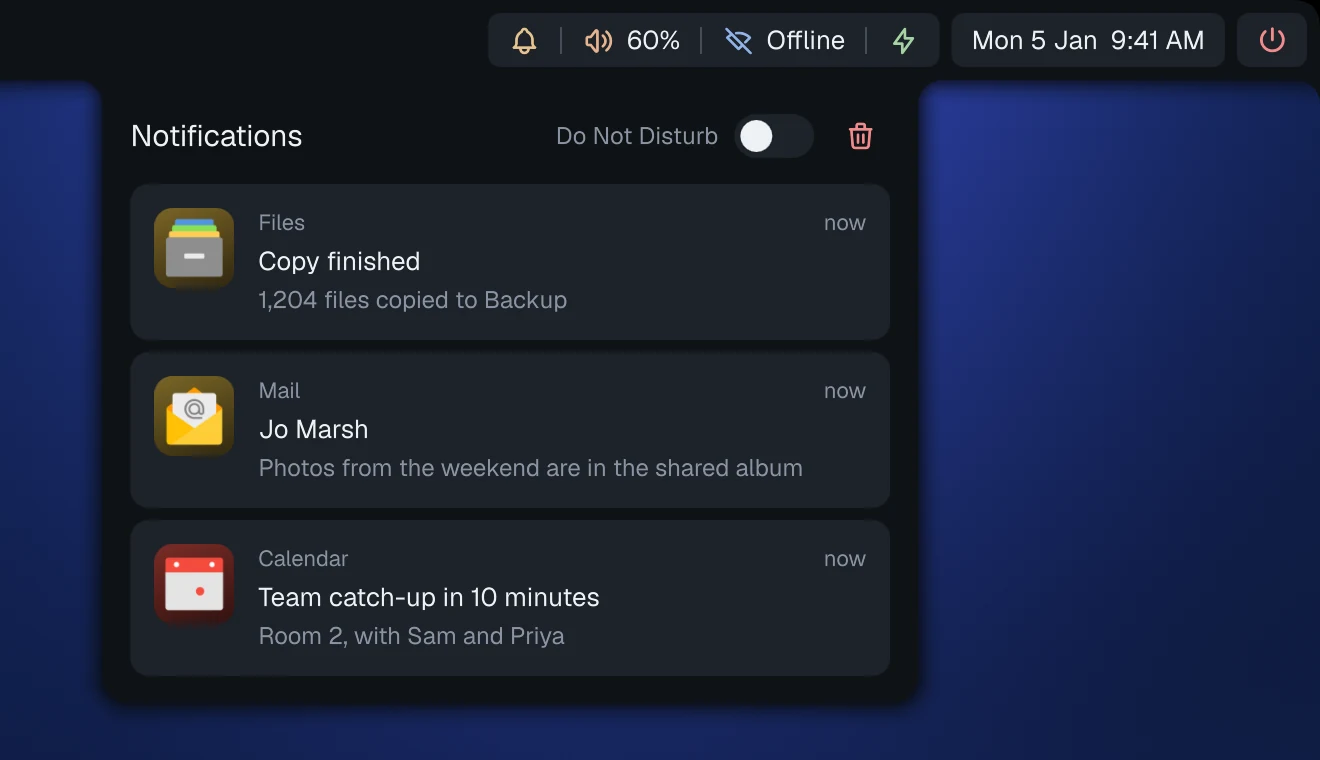
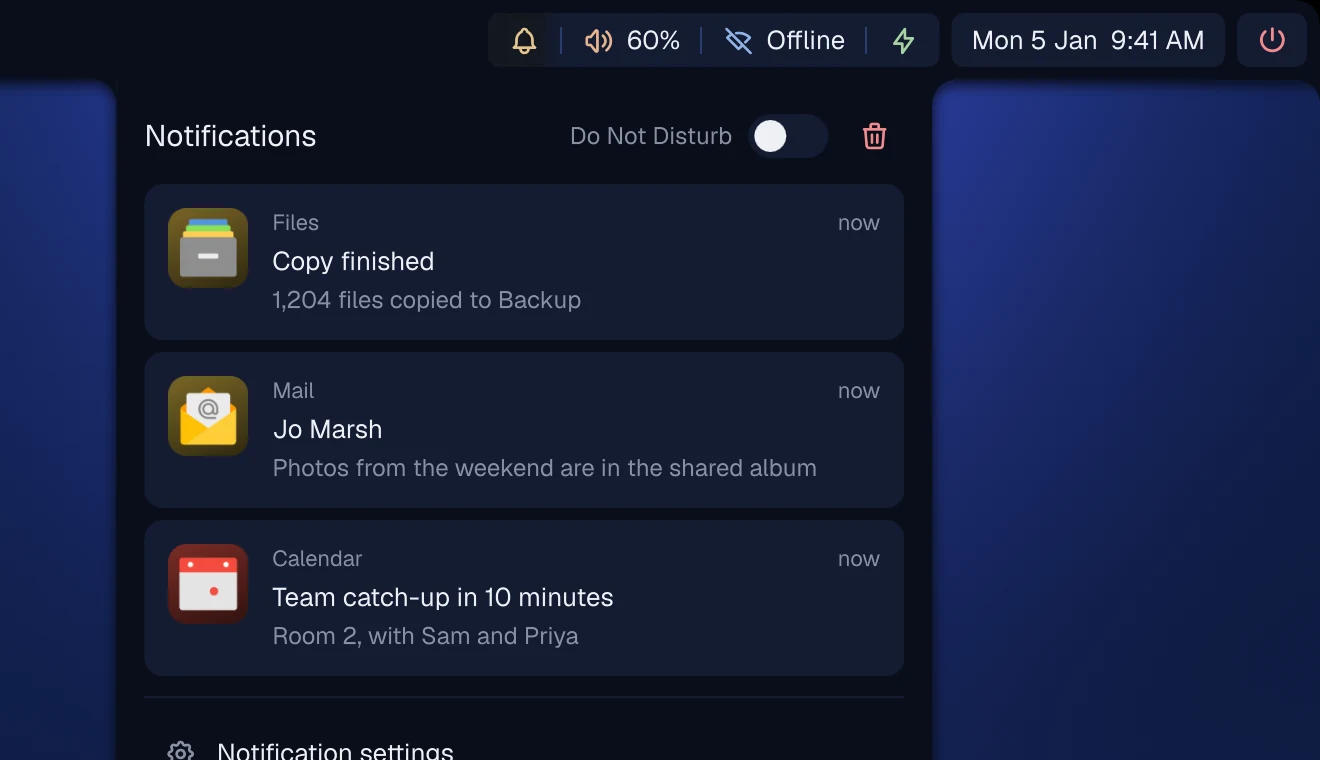
fix: hovers at once, settings links on every panel, clearing asks first
- The control center's Settings and Power buttons, the workspace dots
  and seven more hovers (Nova's close and chips, the dock's media
  buttons, a notification's close and its glass, Quick Look's buttons,
  Settings' icon buttons and search clear) now show at once, as every
  hover does. The static hover check now catches any color that
  follows the pointer and fades.
- The Wi-Fi, Sound, Battery and Notifications panels end with a
  "… settings" link like the others, and a static test keeps it so.
- Clearing the clipboard history (the picker's Clear all, the panel's
  Clear history, Settings → General) asks first, in Slate's
  confirmation window.
- Tray icons in the menu bar's More keep their own row when another
  app quits (rows were keyed by place in the tray).
- Small tidy-ups: menus use Config.glyph, Spaces' icon ink is the
  theme's, the dock preview's check is simpler, and the overview
  copes with a window gone mid-redraw.

Changed region(s): [[0.0621, 0.0908, 0.7144, 1.0], [0.1864, 0.6053, 0.6212, 0.6355]]

diff --git a/shell/shell.qml b/shell/shell.qml
@@ -87,6 +87,7 @@ ShellRoot {
     // Clipboard history (Super+V) and emoji picker (Super+.)
     Picker {
         id: picker
+        confirmer: powerConfirm
         onShownChanged: if (shown) root.closeOverlaysBut(picker)
     }
     // Records clipboard history for the picker (scripts/clipstore.py); exits with Slate
@@ -423,6 +424,10 @@ ShellRoot {
         function fadeInClose(): void { Config.welcoming = false; Config.welcomeFading = false; }
         // Settings asking something (as its Reset does, with a switch): it asks in Slate's
         // confirmation window (power: custom)
+        // The picker's Clear all pressed, and the open question answered yes (only here, in test
+        // mode: the power target can't accept a question, or anything with IPC could say yes)
+        function pickerClearAll(): void { picker.askClearClips(); }
+        function powerAccept(): void { powerConfirm.confirm(); }
         function settingsAsk(): void {
             const w = settingsLoader.item;
             if (w) w.askQuestion({ title: "Test question?", body: "From the tests", button: "Yes",
@@ -654,7 +659,8 @@ ShellRoot {
                 spaces: { saved: Spaces.list.length, live: Spaces.live.length },
                 // (a player playing full screen, which holds off the idle timers)
                 mediaFullscreen: Config.mediaFullscreen,
-                power: { open: powerConfirm.shown, action: powerConfirm.action, option: powerConfirm.hasOption },
+                power: { open: powerConfirm.shown, action: powerConfirm.action, option: powerConfirm.hasOption,
+                         title: powerConfirm.custom ? powerConfirm.custom.title || "" : "" },
                 polkit: { open: polkitAgent.shown },
                 welcome: { built: welcome.built, open: welcome.shown, page: welcome.page, pages: welcome.pages, inApps: welcome.inApps, newHere: welcome.newHere },
                 fadeIn: { open: Config.welcoming, fading: Config.welcomeFading },
@@ -717,7 +723,7 @@ ShellRoot {
                 // The menu bar's arrangement, and arranging it (BarEditor.qml)
                 bar: { arranging: Config.barArranging, layout: Config.barLayout, isDefault: Config.barIsDefault,
                        picked: Config.barSelected, pickedItem: Config.barSelectedItem, editor: !!barEditor.item && barEditor.item.shown, editorBuilt: !!barEditor.item, edge: popouts.edge,
-                       line: topBar.lineState(), span: topBar.lineSpan(), gives: topBar.gives, opened: topBar.openBoxes(), clock: topBar.clockText, titleWidth: Math.round(topBar.titleWidth), overflowed: topBar.overflowed, scroll: topBar.scrollState(), order: Config.barOverflowOrder, priority: barEditor.item ? barEditor.item.priorityState : { open: false, list: [], scroll: 0, scrollMax: 0, lengthMenu: false, length: "" }, stay: Config.barStay, more: topBar.moreRows().map(r => [r.label, r.value]), menu: topBar.menu.visible ? topBar.menu.items.map(i => i.label) : [], dots: topBar.dotsState(), band: topBar.band(),
+                       line: topBar.lineState(), span: topBar.lineSpan(), gives: topBar.gives, opened: topBar.openBoxes(), clock: topBar.clockText, titleWidth: Math.round(topBar.titleWidth), overflowed: topBar.overflowed, scroll: topBar.scrollState(), order: Config.barOverflowOrder, priority: barEditor.item ? barEditor.item.priorityState : { open: false, list: [], scroll: 0, scrollMax: 0, lengthMenu: false, length: "" }, stay: Config.barStay, more: topBar.moreRows().map(r => [r.label, r.value]), moreKeys: topBar.moreKeys().map(k => [k, (topBar.moreRow(k) || {}).label || ""]), menu: topBar.menu.visible ? topBar.menu.items.map(i => i.label) : [], dots: topBar.dotsState(), band: topBar.band(),
                        // (the label off the bar saying what the pointer's over: BarLabel.qml)
                        label: topBar.label.testState() },
                 barEdge: Config.barEdge, dockEdge: Config.dockEdge,

diff --git a/shell/Bar.qml b/shell/Bar.qml
@@ -108,21 +108,31 @@ PanelWindow {
     // not much use as a row in More
     readonly property var notInMore: ["windowicon", "windowtitle"]
     readonly property var inMore: overflowed.filter(id => !notInMore.includes(id))
-    // ...by key: a thing's id, or "tray:<n>" for each tray icon. The More panel's rows are made
-    // from these and only these, so a value changing (a timer each second, the volume) updates
-    // its row (moreRow) rather than making every row again
+    // ...by key: a thing's id, or "tray:<app's id>:<n>" for each tray icon (n counting an app's
+    // icons, for one with two). The More panel's rows are made from these and only these, so a
+    // value changing (a timer each second, the volume) updates its row (moreRow) rather than
+    // making every row again. (Keyed by place in the tray once, a row kept its key when an app
+    // before it quit, and went on to act on the next app along)
+    function trayKeys() {
+        const seen = {};
+        return SystemTray.items.values.map(tr => {
+            const id = String(tr.id || "");
+            seen[id] = (seen[id] || 0) + 1;
+            return "tray:" + id + ":" + seen[id];
+        });
+    }
     function moreKeys() {
         const keys = [];
         for (const id of inMore) {
             if (!Config.barItem(id) || !left.things[id]) continue;
-            if (id === "tray") { SystemTray.items.values.forEach((tr, i) => keys.push("tray:" + i)); continue; }
+            if (id === "tray") { keys.push(...trayKeys()); continue; }
             keys.push(id);
         }
         return keys;
     }
     function moreRow(key) {
         if (key.startsWith("tray:")) {
-            const tr = SystemTray.items.values[Number(key.slice(5))];
+            const tr = SystemTray.items.values[trayKeys().indexOf(key)];
             return tr ? { id: "tray", tray: tr, label: Config.trayName(tr) || "App", icon: 0, image: String(tr.icon), value: "" } : null;
         }
         const it = Config.barItem(key), t = left.things[key];

diff --git a/shell/TrayMenu.qml b/shell/TrayMenu.qml
@@ -128,7 +128,6 @@ PanelWindow {
 
     // Look: the menu bar's colors, as Slate's own menus (DesktopMenu.qml) have
     readonly property color bgColor: bar.barColor
-    readonly property color rowHover: bar.capsuleColor
     readonly property color textColor: bar.textColor
     readonly property color dimColor: Config.palette.dim
     // (the lines between groups: faint, as DesktopMenu's, so they read over glass too)
@@ -186,7 +185,7 @@ PanelWindow {
                         Text {
                             id: backArrow
                             anchors { left: parent.left; leftMargin: 8; verticalCenter: parent.verticalCenter }
-                            text: String.fromCodePoint(0xEA60)
+                            text: Config.glyph(0xEA60)
                             color: tm.dimColor
                             font.family: tm.bar.iconFont; font.pixelSize: 14
                         }
@@ -243,7 +242,7 @@ PanelWindow {
                             Text {
                                 visible: entryRow.checked
                                 anchors { left: parent.left; leftMargin: 8; verticalCenter: parent.verticalCenter }
-                                text: String.fromCodePoint(0xEA5E)
+                                text: Config.glyph(0xEA5E)
                                 color: Config.accent
                                 font.family: tm.bar.iconFont; font.pixelSize: 14
                             }
@@ -273,7 +272,7 @@ PanelWindow {
                             Text {
                                 visible: !!entryRow.e && entryRow.e.hasChildren
                                 anchors { right: parent.right; rightMargin: 8; verticalCenter: parent.verticalCenter }
-                                text: String.fromCodePoint(0xEA61)
+                                text: Config.glyph(0xEA61)
                                 color: tm.dimColor
                                 font.family: tm.bar.iconFont; font.pixelSize: 14
                             }

diff --git a/shell/WorkspaceDots.qml b/shell/WorkspaceDots.qml
@@ -144,11 +144,18 @@ Item {
                 width: wd.dot; height: wd.dot
                 radius: Config.dotRadius(wd.dot)
                 scale: cell.size
-                // Inactive workspaces dimmed a little (the marker shows the one in use);
-                // brighter under the pointer
-                color: cell.lit ? (cell.full ? Config.palette.text : Config.palette.dim)
-                    : cell.full ? Config.palette.mid : Config.palette.faint
+                // Inactive workspaces dimmed a little (the marker shows the one in use): fading as
+                // a workspace fills or empties
+                color: cell.full ? Config.palette.mid : Config.palette.faint
                 Behavior on color { ColorAnimation { duration: Config.ms(150) } }
+                // ...and brighter under the pointer, at once, as every hover is (CONVENTIONS):
+                // faded, it left a half-lit trail along the dots behind the pointer
+                Rectangle {
+                    anchors.fill: parent
+                    radius: parent.radius
+                    visible: cell.lit
+                    color: cell.full ? Config.palette.text : Config.palette.dim
+                }
             }
             // What takes the pointer: the dot, and reachAcross past it each side
             Item {

diff --git a/shell/NotificationCard.qml b/shell/NotificationCard.qml
@@ -82,7 +82,6 @@ Rectangle {
     // Glass: a sheen, as a bold glossy band over the top half (the gentle fade taller shapes
     // get barely showed on a card), a touch stronger than on the bar's capsules
     Gloss { visible: Config.glassGloss && !card.inPanel; radius: parent.radius; band: true; strength: 0.7 }       // (flat in the bell panel)
-    Behavior on color { ColorAnimation { duration: Config.ms(inPanel ? 100 : 160) } }
     // Pop-ups float a little: Slate's shadow (with glass too: it has the card's shape cut out
     // of it, so nothing shows through), kept within the room their window leaves round them
     Shadow { visible: Config.shadowsOn && !card.inPanel; strength: Config.toastShadowShare }
@@ -284,7 +283,6 @@ Rectangle {
                         text: String.fromCodePoint(0xEB55)
                         color: closeHover.hovered ? card.textColor : card.dim
                         // (with the fill behind it, not ahead of it)
-                        Behavior on color { ColorAnimation { duration: Config.ms(100) } }
                         font.family: card.bar.iconFont; font.pixelSize: 13
                     }
                     HoverHandler { id: closeHover }

diff --git a/shell/DesktopMenu.qml b/shell/DesktopMenu.qml
@@ -259,7 +259,7 @@ PanelWindow {
                         Text {
                             visible: card.icons
                             anchors { left: parent.left; leftMargin: 10; verticalCenter: parent.verticalCenter }
-                            text: row.modelData.icon ? String.fromCodePoint(row.modelData.icon) : ""
+                            text: row.modelData.icon ? Config.glyph(row.modelData.icon) : ""
                             color: dm.dimColor
                             font.family: Config.iconFont; font.pixelSize: 16
                         }
@@ -275,7 +275,7 @@ PanelWindow {
                         Text {
                             visible: row.opens
                             anchors { right: parent.right; rightMargin: 8; verticalCenter: parent.verticalCenter }
-                            text: String.fromCodePoint(0xEA61)          // chevron right
+                            text: Config.glyph(0xEA61)          // chevron right
                             color: row.open && dm.subWanted === row.index ? dm.textColor : dm.dimColor
                             font.family: Config.iconFont; font.pixelSize: 15
                         }

diff --git a/shell/WorkspaceOverview.qml b/shell/WorkspaceOverview.qml
@@ -747,7 +747,7 @@ PanelWindow {
                             ShaderEffectSource {
                                 visible: ov.livePreviews
                                 anchors.fill: parent
-                                sourceItem: ov.shotFor(parent.win.address)
+                                sourceItem: parent.win ? ov.shotFor(parent.win.address) : null       // (a window gone mid-redraw: nothing)
                                 live: true
                                 smooth: true
                                 mipmap: true
@@ -785,7 +785,7 @@ PanelWindow {
                             SpaceBadge {
                                 x: Math.round(size * 0.3); y: x
                                 size: Math.round(Math.max(14, Math.min(24, parent.width * 0.12, parent.height * 0.2)))
-                                space: Config.s.spaceSwitcherBadges ? Spaces.spaceById(Spaces.spaceOfAddress[parent.win.address]) : null
+                                space: Config.s.spaceSwitcherBadges ? Spaces.spaceById(Spaces.spaceOfAddress[parent.win?.address ?? ""]) : null
                             }
                         }
                     }

diff --git a/shell/Picker.qml b/shell/Picker.qml
@@ -132,6 +132,13 @@ PanelWindow {
         clipRun(["delete", e.id]);
     }
     function clearClips() { typed = true; clips = []; clipRun(["clear"]); }
+    // Clear all: the picker closes and Slate's confirmation window asks (it cleared in one click)
+    property var confirmer: null
+    function askClearClips() {
+        if (!confirmer) return;
+        close();
+        confirmer.confirmWith(Config.clearClipsQuestion, () => root.clearClips());
+    }
 
     function preview(text) { return text.replace(/\s+/g, " ").trim(); }
     // (the clipboard's times are in seconds; Config.ago takes milliseconds)
@@ -503,7 +510,7 @@ PanelWindow {
                 // (destructive: written in red, and red under the pointer)
                 color: clearHover.hovered ? Config.hoverDanger : root.fieldColor
                 HoverHandler { id: clearHover }
-                ClickTap { onTapped: root.clearClips() }
+                ClickTap { onTapped: root.askClearClips() }
                 Text {
                     id: clearLabel
                     anchors.centerIn: parent

diff --git a/shell/panels/ControlPanel.qml b/shell/panels/ControlPanel.qml
@@ -125,11 +125,10 @@ Column {
                     required property var modelData
                     width: 34; height: 34
                     // Flat and solid, with glass too: the card's own solid colour, no edge and
-                    // nothing showing through; under the pointer, the muted hover over it
-                    readonly property color base: Config.palette.card
+                    // nothing showing through; under the pointer, the muted hover over it, at
+                    // once (RowButton's hoverBase: its own colour override faded the hover in)
+                    hoverBase: Config.palette.card
                     Accessible.name: modelData.act === "settings" ? "Settings" : "Power"
-                    color: controlButtonHover.hovered ? Qt.tint(base, Config.hover) : base
-                    HoverHandler { id: controlButtonHover }
                     onClicked: {
                         if (modelData.act === "settings") { pop.close(); pop.slate(["settings", "open"]); }
                         else pop.openSessionFromControl();

diff --git a/shell/Config.qml b/shell/Config.qml
@@ -3142,6 +3142,13 @@ Singleton {
     // Hyprland's config is loaded again so its own value returns. Not for a default that's a real
     // value Slate sends anyway (key repeat's 500 and 16, focus follows mouse "on"): reloading
     // for those brought nothing back
+    // Clearing the clipboard history asks first, the same from the picker and the bar's panel
+    // (in Slate's confirmation window, as emptying the waste basket does)
+    readonly property var clearClipsQuestion: ({
+        title: "Clear your clipboard history?",
+        body: "Everything you've copied will be removed from it for good, pictures included. Just so you know, this can't be undone.",
+        button: "Clear", code: 0xEB41, danger: true
+    })
     function hyprKeyEdited(key, was) {
         const notSetHere = ["", -1, -2].some(n => sameValue(defaults[key], n));
         if (hyprKeys.includes(key) && notSetHere && !sameValue(was, defaults[key]) && sameValue(root.s[key], defaults[key]))

diff --git a/shell/Assistant.qml b/shell/Assistant.qml
@@ -618,7 +618,6 @@ Scope {
                                 text: String.fromCodePoint(0xEB55)
                                 color: closeHover.hovered ? root.textColor : root.dimTextColor
                                 // (with the fill behind it, not ahead of it)
-                                Behavior on color { ColorAnimation { duration: Config.ms(100) } }
                                 font.family: Config.iconFont; font.pixelSize: 18
                             }
                             HoverHandler { id: closeHover }
@@ -1267,7 +1266,6 @@ Scope {
         z: 2
         width: 24; height: 24; radius: Config.corner(8)
         color: chipHover.hovered ? hoverBase : base
-        Behavior on color { ColorAnimation { duration: Config.ms(100) } }
         opacity: shownFor || done ? 1 : 0
         visible: opacity > 0
         Behavior on opacity { NumberAnimation { duration: Config.ms(120) } }

diff --git a/shell/panels/ClipboardPanel.qml b/shell/panels/ClipboardPanel.qml
@@ -92,7 +92,14 @@ Column {
         visible: Config.s.clipboardHistory && clipView.entries.length > 0
         code: 0xEB41; text: "Clear history"
         iconColor: pop.danger; textColor: pop.danger; danger: true
-        onClicked: { clipView.entries = []; Quickshell.execDetached(["python3", clipView.script, "clear"]); }
+        // (the panel closes and Slate's confirmation window asks first, as the picker's Clear all does)
+        onClicked: {
+            pop.close();
+            pop.powerConfirm.confirmWith(Config.clearClipsQuestion, () => {
+                clipView.entries = [];
+                Quickshell.execDetached(["python3", clipView.script, "clear"]);
+            });
+        }
     }
     LinkRow {
         code: 0xEB20; text: "Clipboard settings"
